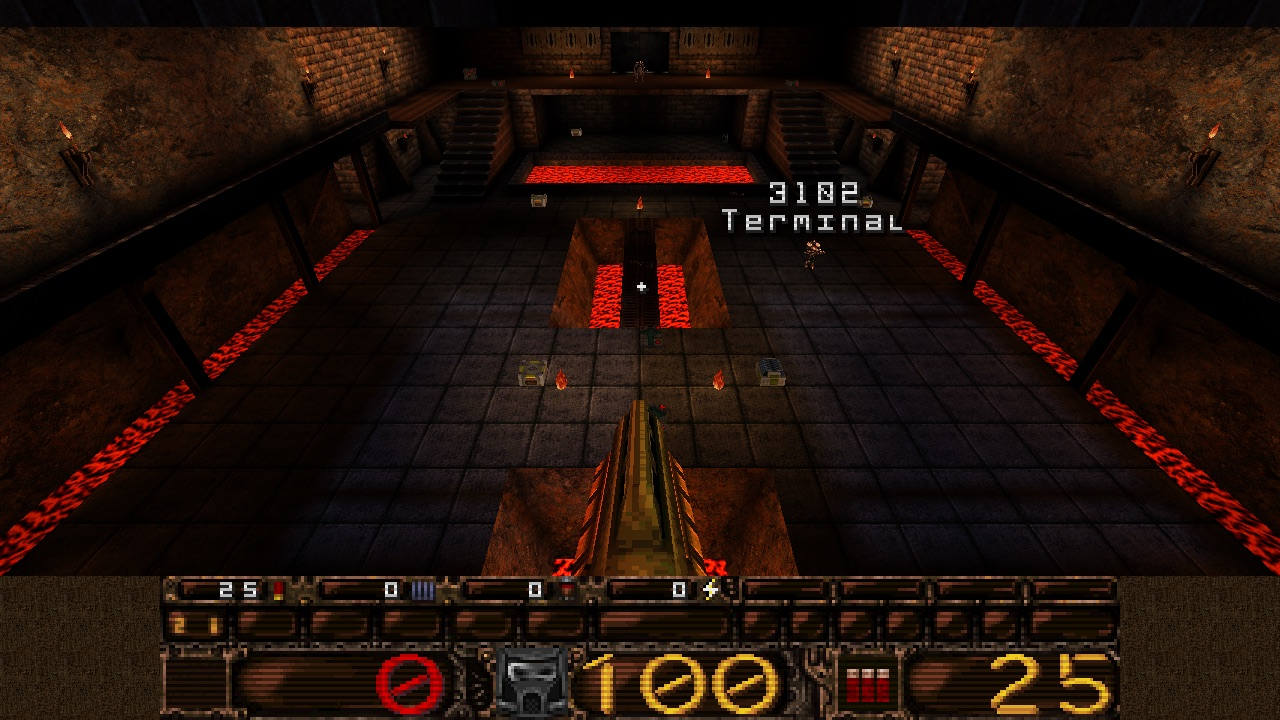
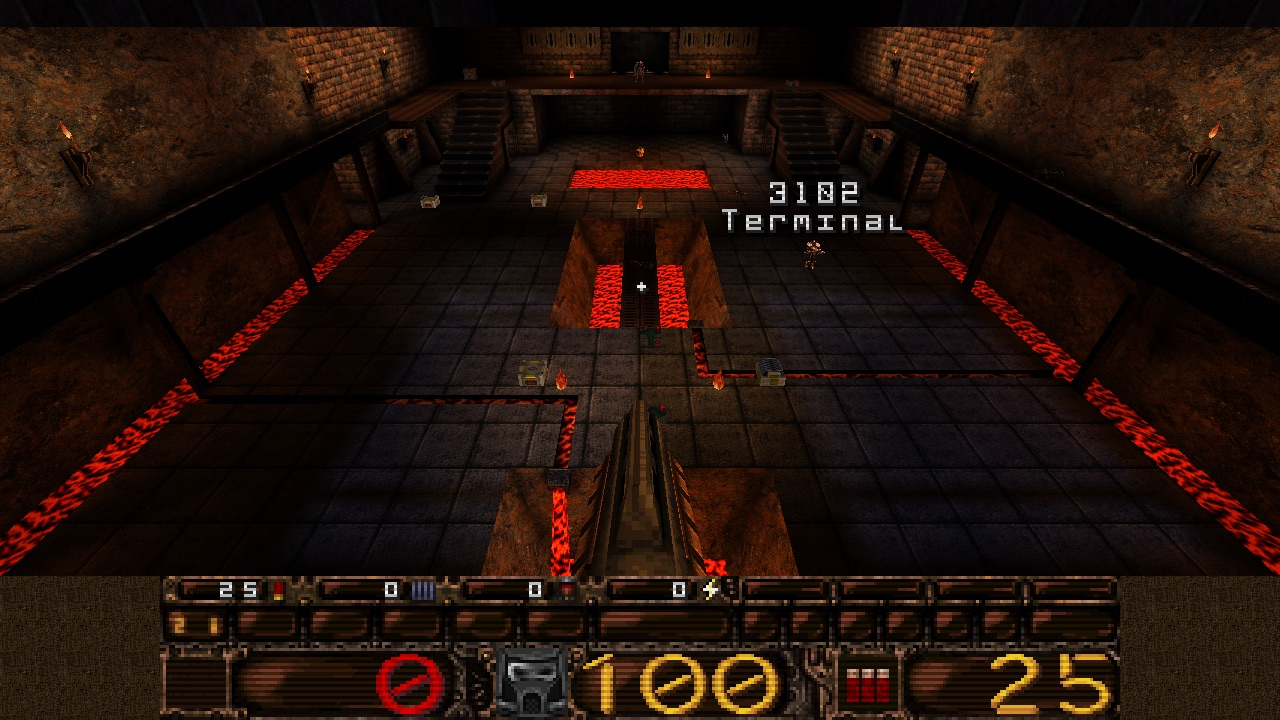
docs: The arenas without skill arches, and Forge's bridged, fed pits
README and architecture.md: no skill arches (the menu's skill holds).
Forge's description gains its bridged pits, lava channels and the
tunnels under its twin stairs. The six arenas' screenshots and Forge's
plan are re-rendered from build-gate/.

diff --git a/README.md b/README.md
@@ -262,23 +262,21 @@ Process monsters never appear in network games.
 ### The arenas
 
 New Game opens the Temple (`maps/psqtemple.bsp`), not LibreQuake's start
-map. You start in a room monsters cannot walk into:
-walk through one of its four arches to pick the skill (EASY, NORMAL, HARD,
-NIGHTMARE, named above them, left to right; the console says which you
-chose and what it changes), cross the clear space after them, and jump the
-low lip in the doorway into the hall (a walking monster cannot climb it).
+map, at the skill chosen in the menu (no map changes it). You start in a
+room monsters cannot walk into: jump the low lip in its doorway into the
+hall (a walking monster cannot climb it).
 There your processes teleport in as monsters, one to a cell of a floor grid
 on any level. To leave, shoot the door at the back of the north alcove (only
 your shots open it) and step into the teleporter behind it.
 
 When the monsters crowd the doorway, take the lit hallway in the room's
-east wall after the arches instead: it runs round outside the hall to a
+east wall instead: it runs round outside the hall to a
 balcony high in the hall's east wall, far from the doorway, with low cover
 to shoot from and an open middle to drop from. No walking or leaping
 monster gets up to it or reaches it from below; flying Scrags can, and
 ranged monsters can shoot at you there.
 
-What the skill changes, as the arch says: Easy, Normal and Hard choose which
+What the skill changes: Easy, Normal and Hard choose which
 of a campaign map's monsters appear (the arenas place none of their own;
 process monsters come whatever the skill). Nightmare places Hard's, and
 monsters attack without pause and most rarely flinch; Shamblers cast an extra
@@ -295,9 +293,10 @@ and the layout in `tools/arena_maps.py`. Its exit leads to Ruins
 climbing to a ruined tower, a chasm of shallow water crossed by a stone
 bridge, and a ruined keep and cliff ledge. Ruins' exit leads to Forge
 (`psqforge`): a foundry hall with lava channels at its edges and stars
-through its roof, two lava pits down its middle (the rocket launcher and
-super nailgun wait on the bridge over the north one), twin stairs over a lava
-pool to an altar, grated catwalks round the hall and sunken undercrofts. Forge's exit leads to the Pit
+through its roof, two bridged lava pits down its middle fed by narrow lava
+channels (the rocket launcher and super nailgun wait on the north bridge),
+twin stairs to an altar with arched tunnels under them to behind a lava pool,
+grated catwalks round the hall and sunken undercrofts. Forge's exit leads to the Pit
 (`psqarena`). The Pit, Terraces and Towers are banked:
 still shipped and loadable with `map`.
 
@@ -355,8 +354,8 @@ The arenas are generated, not drawn: `tools/generate_arena.py` writes each
 map and a texture WAD (textures copied from LibreQuake's own maps, each
 pinned by SHA-256), ericw-tools compiles it, and `tools/validate_bsp.py`
 checks the result (sealed, lit, every texture embedded, every grid clear for
-the largest monsters, the exit behind its door and the skill arches in
-place, the start room, its escape hallway and balcony out of every walking or
+the largest monsters, the exit behind its door and no skill trigger
+anywhere, the start room, its escape hallway and balcony out of every walking or
 leaping monster's reach, every cell walkable
 from the start, every pickup and resupply spot where an item lands) before the build bundles it. Without the map compilers the
 app still builds, New Game opens the start map, and the arenas'

diff --git a/docs/architecture.md b/docs/architecture.md
@@ -337,18 +337,15 @@ The arenas (`ARENAS` in the generator):
 
 New Game opens `psqarena`; no exit leads to `psqtesthall`. The three
 shipped arenas share a start room and an exit (the test hall keeps the old
-antechamber with floor pads, and an open alcove):
+antechamber, and an open alcove; no map has a skill trigger, so the skill
+is the menu's):
 
 - the start room (`START_ROOM`, 832 x 704): the player start at its south
-  end; an arch wall with four arches, each a `psq_skill_arch` (0 to 3,
-  left to right: `psq.qc`'s `trigger_setskill` that also tells the
-  player, once per choice, what the skill changes) and its name above it
-  in LibreQuake's 16 x 16 font textures (one box per letter, on the texture
-  grid); a clear space after them; a 32-unit lip in the doorway to the
+  end; the escape's mouth in its east wall; a 32-unit lip in the doorway to the
   hall, which the player jumps and a walking monster (steps of 18) cannot
   climb;
-- the escape (`ESC_*`, each layout's `balcony`): a hallway from the clear
-  space through the room's east wall, round the hall's south-east corner
+- the escape (`ESC_*`, each layout's `balcony`): a hallway from the room's
+  north end through its east wall, round the hall's south-east corner
   and up a stair outside its east wall, to a balcony set into that wall
   behind a window, 128 to 192 over the floor below (out of every climb,
   fiend leap and melee reach; no fall damage), 769 or more from the hall
